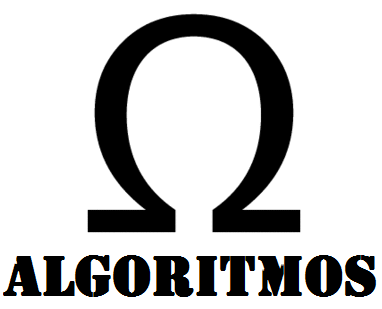
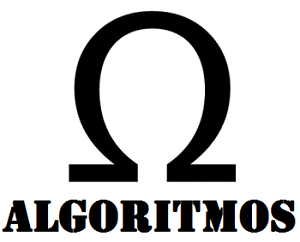
ajustes finos

diff --git a/views/grades.html b/views/grades.html
@@ -51,15 +51,7 @@
                 <li class="nav-item">
                     <a class="nav-link navbar-toggler layout-toggler" href="#">☰</a>
                 </li>
-                <li class="nav-item p-x-1">
-                    <a class="nav-link" href="#">Dashboard</a>
-                </li>
-                <li class="nav-item p-x-1">
-                    <a class="nav-link" href="#">Users</a>
-                </li>
-                <li class="nav-item p-x-1">
-                    <a class="nav-link" href="#">Settings</a>
-                </li>
+                
             </ul>
             <ul class="nav navbar-nav pull-right hidden-md-down">
                 <li class="nav-item">
@@ -160,9 +152,9 @@
                     <div class="card-header">
                         Distribuição de notas da turma
                         <div class="card-actions">
-                            <a href="http://www.chartjs.org">
-                                <small class="text-muted">docs</small>
-                            </a>
+                          <a href="">
+                                <small class="text-muted">+</small>
+                              </a>
                         </div>
                     </div>
                     <div class="card-block">
@@ -175,7 +167,7 @@
                 </div>
                 <div class="card" style="height:490px;">
                     <div class="card-header">
-                        Comparativo de atividades
+                        Comparativo de notas
                         <div class="card-actions">
                             <div class="input-group">
                                 <span class="input-group-btn" id="search-std">
@@ -196,7 +188,7 @@
                     <div class="card-header">
                         Distribuição de médias da turma em quartis
                         <div class="card-actions">
-                            <a href="http://www.chartjs.org">
+                            <a href="">
                                 <small class="text-muted">+</small>
                             </a>
                         </div>
@@ -214,9 +206,9 @@
                     <div class="card-header">
                         Evolução de notas
                         <div class="card-actions">
-                            <a href="http://www.chartjs.org">
-                                <small class="text-muted">docs</small>
-                            </a>
+                          <a href="">
+                                <small class="text-muted">+</small>
+                              </a>
                         </div>
                     </div>
                     <div class="card-block">

diff --git a/js/main.js b/js/main.js
@@ -118,7 +118,7 @@
 	                data : [randomScalingFactor(),randomScalingFactor(),randomScalingFactor(),randomScalingFactor(),randomScalingFactor(),randomScalingFactor(),randomScalingFactor()]
 	            },
 	            {
-	                label: 'Aluno',
+	                label: 'João',
 	                backgroundColor : 'rgba(151,187,205,0.2)',
 	                borderColor : 'rgba(151,187,205,1)',
 	                pointBackgroundColor : 'rgba(151,187,205,1)',
@@ -176,22 +176,22 @@
 
 
 					xAxis: {
-							categories: ['1', '2', '3', '4', '5'],
+							categories: ['Ativ. 1', 'Ativ. 2', 'Ativ. 3', 'Ativ. 4'],
 							title: {
-									text: 'Média das atividades'
+									text: 'Atividade'
 							}
 					},
 
 					yAxis: {
 							title: {
-									text: 'Quantidade'
+									text: 'Média das atividades'
 							},
 							plotLines: [{
-									value: 4,
+									value: 5,
 									color: 'red',
 									width: 1,
 									label: {
-											text: 'Média: 4',
+											text: 'Média: 5',
 											align: 'center',
 											style: {
 													color: 'gray'
@@ -201,34 +201,31 @@
 					},
 
 					series: [{
-							name: 'Observations',
+							name: 'Observações',
 							data: [
-									[10, 13, 20, 25, 30],
-									[10, 13, 20, 25, 30],
-									[10, 13, 20, 25, 30],
-									[10, 13, 20, 25, 30],
-									[10, 13, 20, 25, 30]
+									[0, 3, 6, 5.5, 10],
+									[1, 5, 7, 6, 9.5],
+									[0, 2, 4, 5, 10],
+									[2, 3, 7, 5.5, 8.8],
 							],
 							tooltip: {
-									headerFormat: '<em>Experiment No {point.key}</em><br/>'
+									headerFormat: '<em>Atividade {point.key}</em><br/>'
 							}
 					}, {
-							name: 'Outlier',
+							name: 'Valor discrepante',
 							color: Highcharts.getOptions().colors[0],
 							type: 'scatter',
 							data: [ // x, y positions where 0 is the first category
-									[0, 10],
-									[4, 20],
-									[4, 10],
-									[4, 15]
+									[1, 0 ],
+									[2, 10]
 							],
 							marker: {
 									fillColor: 'white',
-									lineWidth: 1,
+									lineWidth: 2,
 									lineColor: Highcharts.getOptions().colors[0]
 							},
 							tooltip: {
-									pointFormat: 'Observation: {point.y}'
+									pointFormat: 'Nota: {point.y}'
 							}
 					}]
 				}

diff --git a/views/usage.html b/views/usage.html
@@ -53,15 +53,6 @@
                 <li class="nav-item">
                     <a class="nav-link navbar-toggler layout-toggler" href="#">☰</a>
                 </li>
-                <li class="nav-item p-x-1">
-                    <a class="nav-link" href="#">Dashboard</a>
-                </li>
-                <li class="nav-item p-x-1">
-                    <a class="nav-link" href="#">Users</a>
-                </li>
-                <li class="nav-item p-x-1">
-                    <a class="nav-link" href="#">Settings</a>
-                </li>
             </ul>
             <ul class="nav navbar-nav pull-right hidden-md-down">
                 <li class="nav-item">
@@ -71,7 +62,7 @@
                 <li class="nav-item dropdown">
                     <a class="nav-link dropdown-toggle nav-link" data-toggle="dropdown" href="#" role="button" aria-haspopup="true" aria-expanded="false">
                         <img src="/img/avatars/7.jpg" class="img-avatar" alt="admin@bootstrapmaster.com">
-                        <span class="hidden-md-down">admin</span>
+                        <span class="hidden-md-down">Daniel</span>
                     </a>
                     <div class="dropdown-menu dropdown-menu-right">
                         <div class="dropdown-header text-xs-center">

diff --git a/js/usage.js b/js/usage.js
@@ -252,7 +252,7 @@
 
 
 				      xAxis: {
-				          categories: ['1', '2', '3', '4', '5'],
+				          categories: ['1', '2', '3', '4'],
 				          title: {
 				              text: 'Acessos semanais'
 				          }
@@ -283,7 +283,6 @@
 				              [10, 13, 20, 25, 30],
 				              [10, 13, 20, 25, 30],
 				              [10, 13, 20, 25, 30],
-				              [10, 13, 20, 25, 30]
 				          ],
 				          tooltip: {
 				              headerFormat: '<em>Experiment No {point.key}</em><br/>'
@@ -294,9 +293,8 @@
 				          type: 'scatter',
 				          data: [ // x, y positions where 0 is the first category
 				              [0, 10],
-				              [4, 20],
-				              [4, 10],
-				              [4, 15]
+				              [2, 20],
+				              [1, 10],
 				          ],
 				          marker: {
 				              fillColor: 'white',

diff --git a/views/home.html b/views/home.html
@@ -107,7 +107,7 @@
       </div>
     </div>
     <div class="card">
-      <img class="card-img-top" data-src="holder.js/100px200/" alt="100%x200" style="height: 200px; width: 100%; display: block;" src="/img/algorithms.jpg" data-holder-rendered="true">
+      <img class="card-img-top" data-src="holder.js/100px200/" alt="100%x200" style="height: 200px; width: 85%; display: block; margin-left:3em;" src="/img/algorithms.png" data-holder-rendered="true">
       <div class="card-block">
         <h4 class="card-title">Algoritmos - 2016.1</h4>
         <p class="card-text">Disciplina de Algoritmos e estrutura de dados utilizando C</p>

diff --git a/views/advanced.html b/views/advanced.html
@@ -57,7 +57,7 @@
                 <li class="nav-item dropdown">
                     <a class="nav-link dropdown-toggle nav-link" data-toggle="dropdown" href="#" role="button" aria-haspopup="true" aria-expanded="false">
                         <img src="/img/avatars/7.jpg" class="img-avatar" alt="admin@bootstrapmaster.com">
-                        <span class="hidden-md-down">admin</span>
+                        <span class="hidden-md-down">Daniel</span>
                     </a>
                     <div class="dropdown-menu dropdown-menu-right">
                         <div class="dropdown-header text-xs-center">
